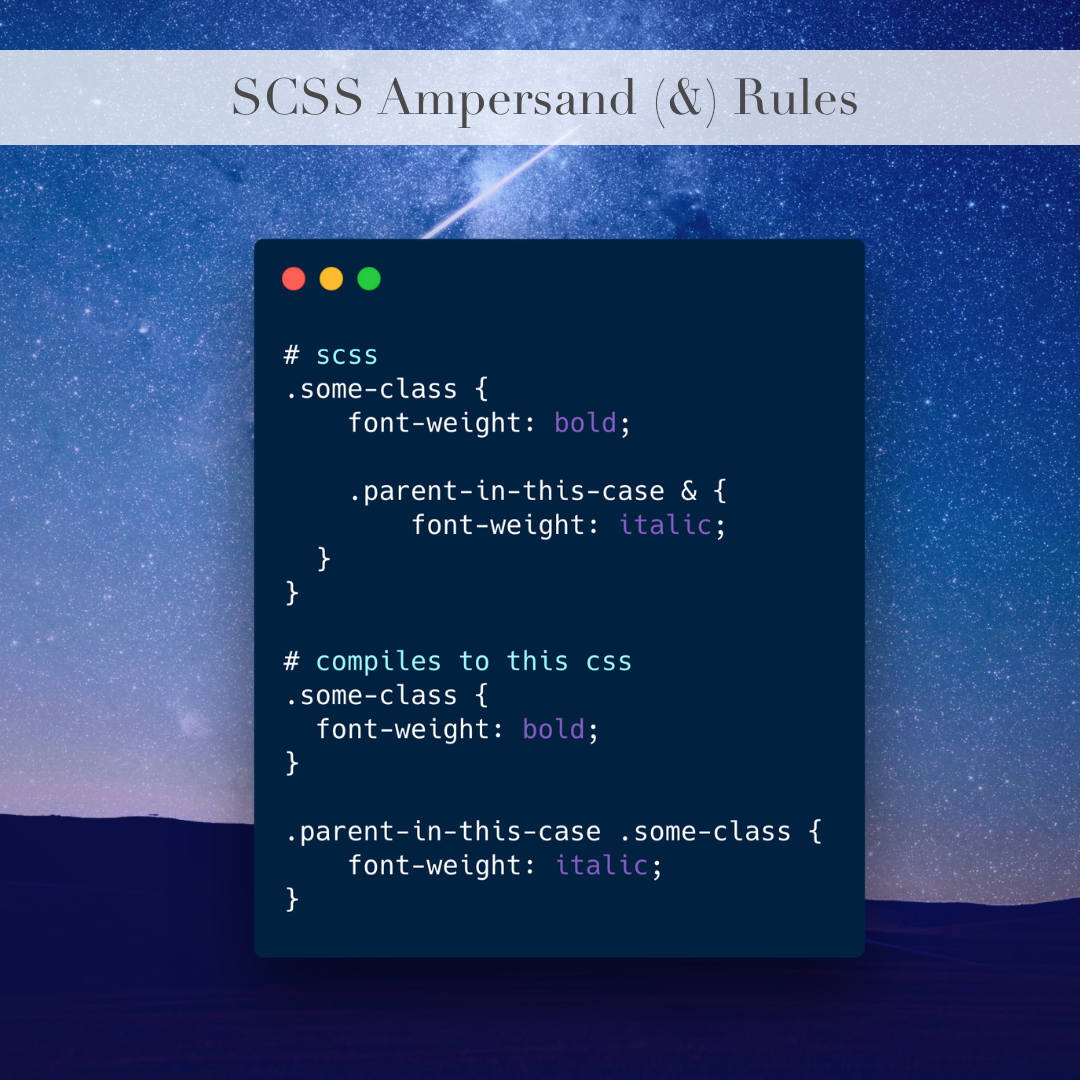
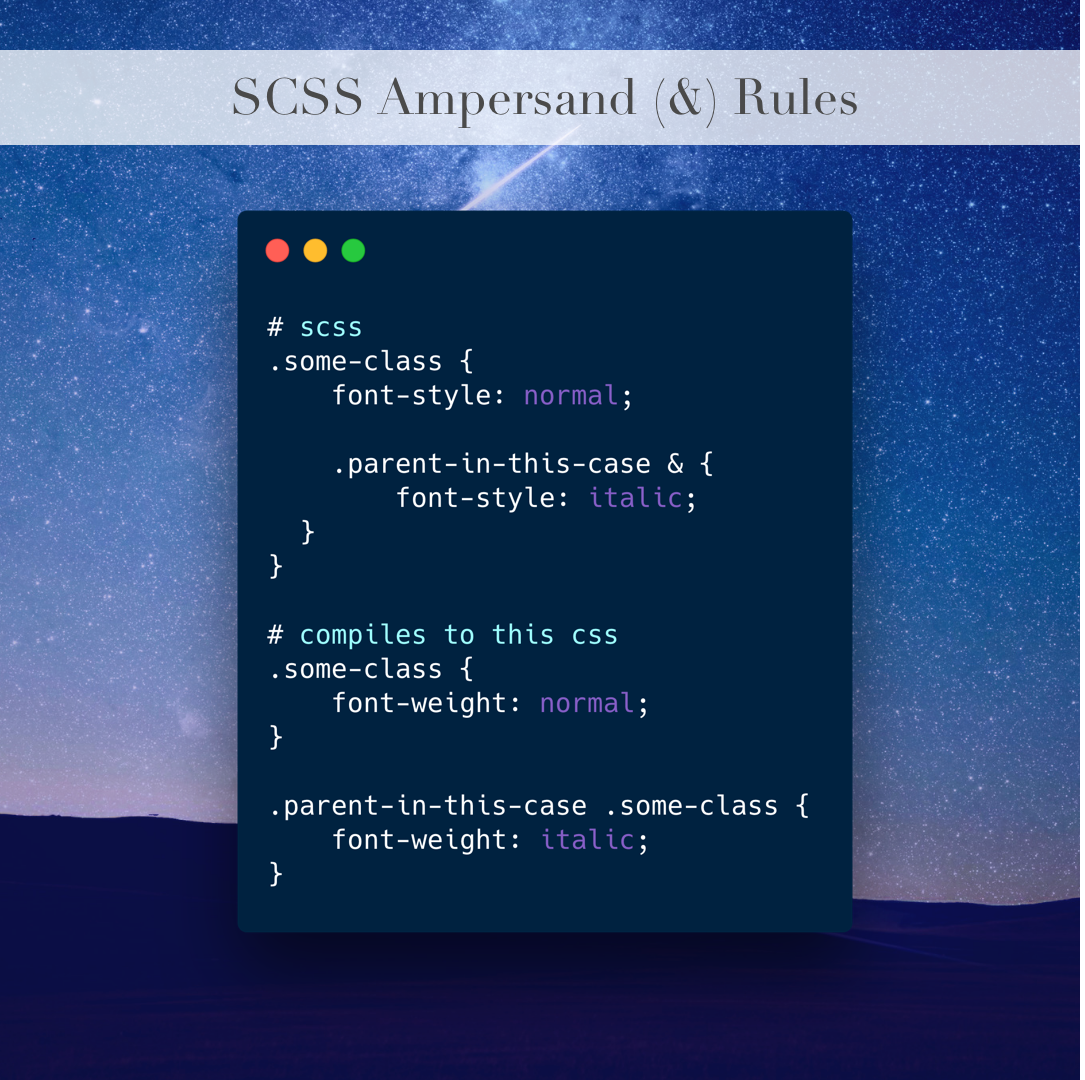
add in screen session post and clean up & scss cover

diff --git a/_social-posts/linux-screen-utility.md b/_social-posts/linux-screen-utility.md
@@ -1,0 +1,66 @@
+---
+layout: social-post
+type: "SocialPosts"
+title: "Linux: screen utility"
+image: /assets/images/screen-video.gif
+cover-image: /assets/images/screen-session-cover.png
+excerpt: "If you need to run a long running task on a remote machine and don’t want to worry about the connection dropping, you can use the screen utility. The screen utility allows us to detach from that session and resume whenever we need to."
+date: 2019-03-18
+categories: [advanced, linux, long-processes]
+instagram-id: 
+docs: https://linux.die.net/man/1/screen
+---
+{:.center}
+# {{ page.title }}
+
+{:.post-content}
+If you need to run a long running task on a remote machine and don’t want to 
+worry about the connection dropping, you can use the screen utility. The screen 
+utility allows us to detach from that session and resume whenever we need to.
+
+{:.post-content}
+Start a new screen by typing in screen -S {name of the session}. 
+In our case we’re calling it “my-session”. 
+
+{% highlight bash %}
+screen -S my-session
+{% endhighlight %}
+
+{:.post-content}
+That then takes you to a new session. 
+We can then detach from the screen by pressing control + a + d all at the same 
+time or screen -d. 
+
+{% highlight bash %}
+screen -d
+{% endhighlight %}
+
+{:.post-content}
+This removes us from that session but keeps whatever was running in that 
+session intact and undisturbed. So we can exit the ssh session we’re in and 
+there would be no issues. We could then ssh back into the server and resume the 
+screen session by typing screen -R {name of the session} and in our case the 
+command would be screen -R my-session. Very useful for long running processes 
+that we don’t want to get interrupted by a connection dropping.
+See the "man pages" <a href="{{page.docs}}" target="_blank">here</a>
+
+{% highlight bash %}
+screen -R my-session
+{% endhighlight %}
+
+{:.post-content}
+Let's see it in action:
+
+{:.image .center}
+![screen-usage]({{page.image}})
+
+{% if page.instagram-id %}
+{:.center}
+<a class="insta-link" href="https://www.instagram.com/p/{{page.instagram-id}}" target="_blank">Instagram Post</a>
+{% endif %}
+
+
+
+
+
+
